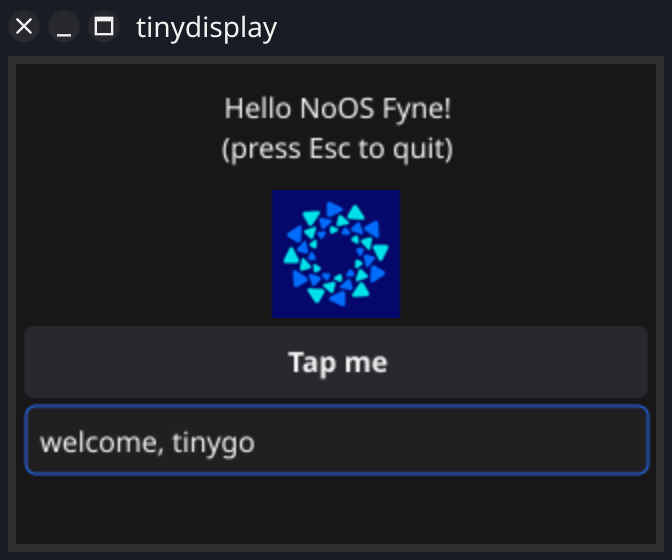
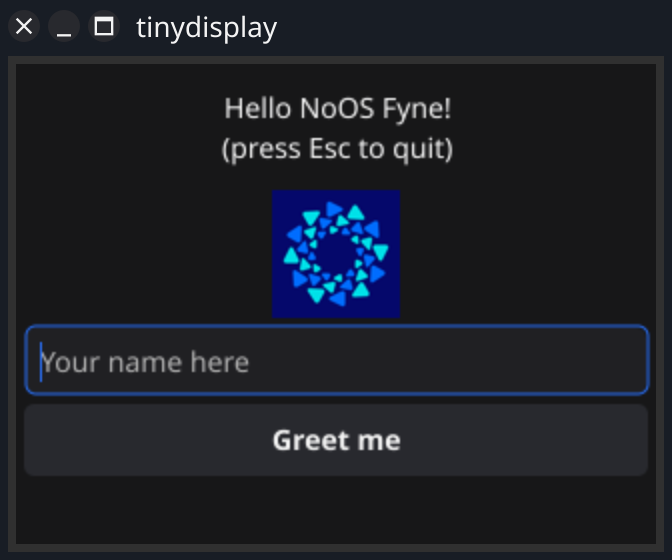
Support nagivating around the UI with tab
Refine the UI to show that in action

Changed region(s): [[0.0312, 0.5768, 0.9688, 0.85]]

diff --git a/main.go b/main.go
@@ -2,6 +2,7 @@ package main
 
 import (
 	_ "embed"
+
 	"fyne.io/fyne/v2"
 	"fyne.io/fyne/v2/app"
 	"fyne.io/fyne/v2/canvas"
@@ -22,28 +23,55 @@ func main() {
 	w := a.NewWindow("Fyne NOOS Demo")
 	w.Resize(fyne.NewSize(float32(ww), float32(hh)))
 
-	entry := widget.NewEntry()
-	w.SetContent(makeUI(entry))
-	w.Canvas().Focus(entry)
-
+	setContent(w)
 	w.Show()
+
 	runApp(a, queue)
 	quit()
 }
 
-func makeUI(in fyne.CanvasObject) fyne.CanvasObject {
+func setContent(w fyne.Window) {
+	entry := widget.NewEntry()
+	entry.SetPlaceHolder("Your name here")
+
 	welcome := widget.NewLabel("Hello NoOS Fyne!\n(press Esc to quit)")
 	welcome.Alignment = fyne.TextAlignCenter
 	img := canvas.NewImageFromResource(fyne.NewStaticResource("fyne.png", imgData))
 	img.SetMinSize(fyne.NewSquareSize(64))
 
-	return container.NewVBox(welcome, container.NewCenter(img),
-		widget.NewButton("Tap me", func() {
-			welcome.SetText("Welcome 😀")
-		}), in)
+	content := container.NewVBox(welcome, container.NewCenter(img),
+		entry,
+		widget.NewButton("Greet me", func() {
+			welcome.SetText("Hello, " + entry.Text + " 😀\nWelcome to the Tingo/Tamago Fyne app!")
+		}))
+
+	w.SetContent(content)
+	w.Canvas().Focus(entry)
 }
 
 func triggerKey(key uint16, dir noos.KeyDirection, queue chan noos.Event) {
+	name := fyne.KeyName("")
+	switch key {
+	case 27: // esc
+		name = fyne.KeyEscape
+	case 13: // ret
+		name = fyne.KeyReturn
+	case 8: // backspace
+		name = fyne.KeyBackspace
+	case 9: // tab
+		name = fyne.KeyTab
+	case ' ':
+		name = fyne.KeySpace
+	default:
+		if key > ' ' && key < '~' {
+			name = fyne.KeyName(rune(key))
+			if key >= 'a' && key <= 'z' {
+				name = fyne.KeyName(rune(key) - 'a' + 'A')
+			}
+		}
+	}
+	queue <- &noos.KeyEvent{Name: name, Direction: dir}
+
 	// visible characters
 	if key >= ' ' && key <= '~' {
 		if dir == noos.KeyReleased {
@@ -51,22 +79,5 @@ func triggerKey(key uint16, dir noos.KeyDirection, queue chan noos.Event) {
 		}
 
 		queue <- &noos.CharacterEvent{Rune: rune(key)}
-		return
 	}
-
-	// other keys
-	name := fyne.KeyName("")
-	switch key {
-	case 27: // esc
-		name = fyne.KeyEscape
-	case 13: // ret
-		name = fyne.KeyReturn
-	case 9: // backspace
-		name = fyne.KeyBackspace
-	case 8: // tab
-		name = fyne.KeyTab
-	default:
-		name = fyne.KeyName([]byte{byte(key)})
-	}
-	queue <- &noos.KeyEvent{Name: name, Direction: dir}
 }

diff --git a/driver-tinygo.go b/driver-tinygo.go
@@ -58,10 +58,10 @@ func mapKey(key uint16) uint16 {
 		return 27 // esc
 	case 0x101:
 		return 13 // ret
-	case 0x102:
-		return 8 // tab
 	case 0x103:
-		return 9 // backspace
+		return 8 // backspace
+	case 0x102:
+		return 9 // tab
 	case 0x105:
 		return 127 // delete
 	}
